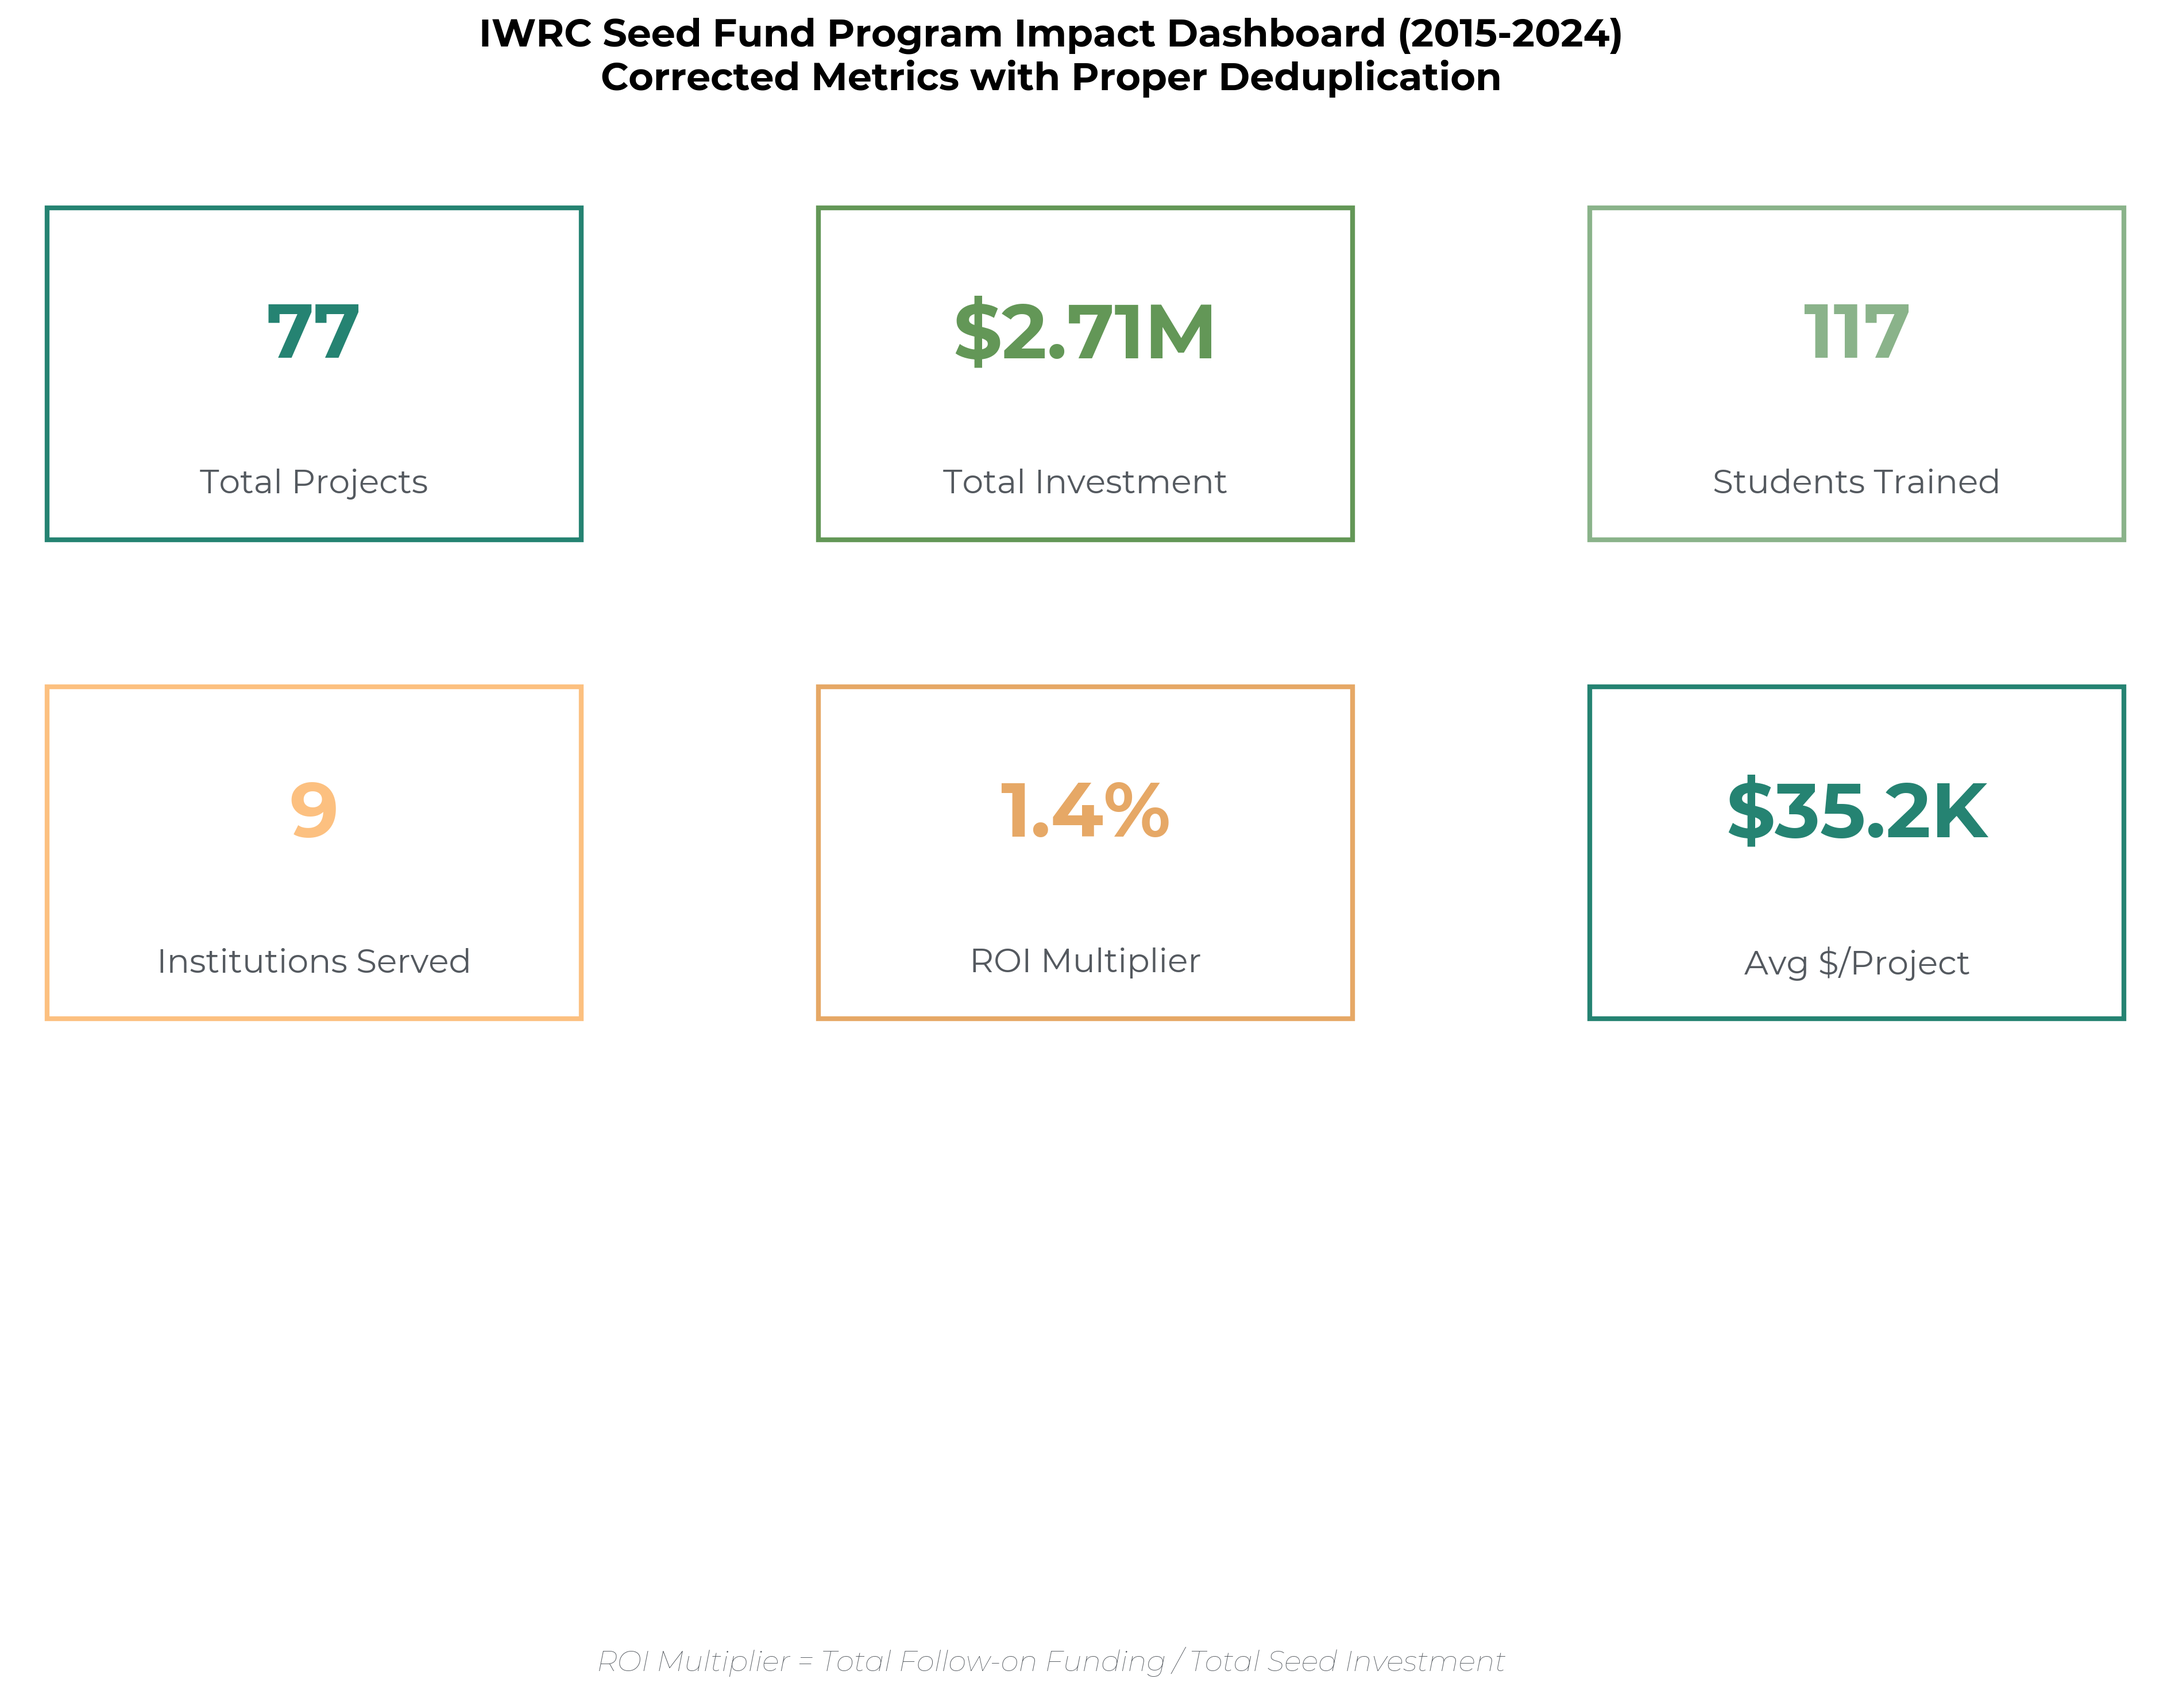
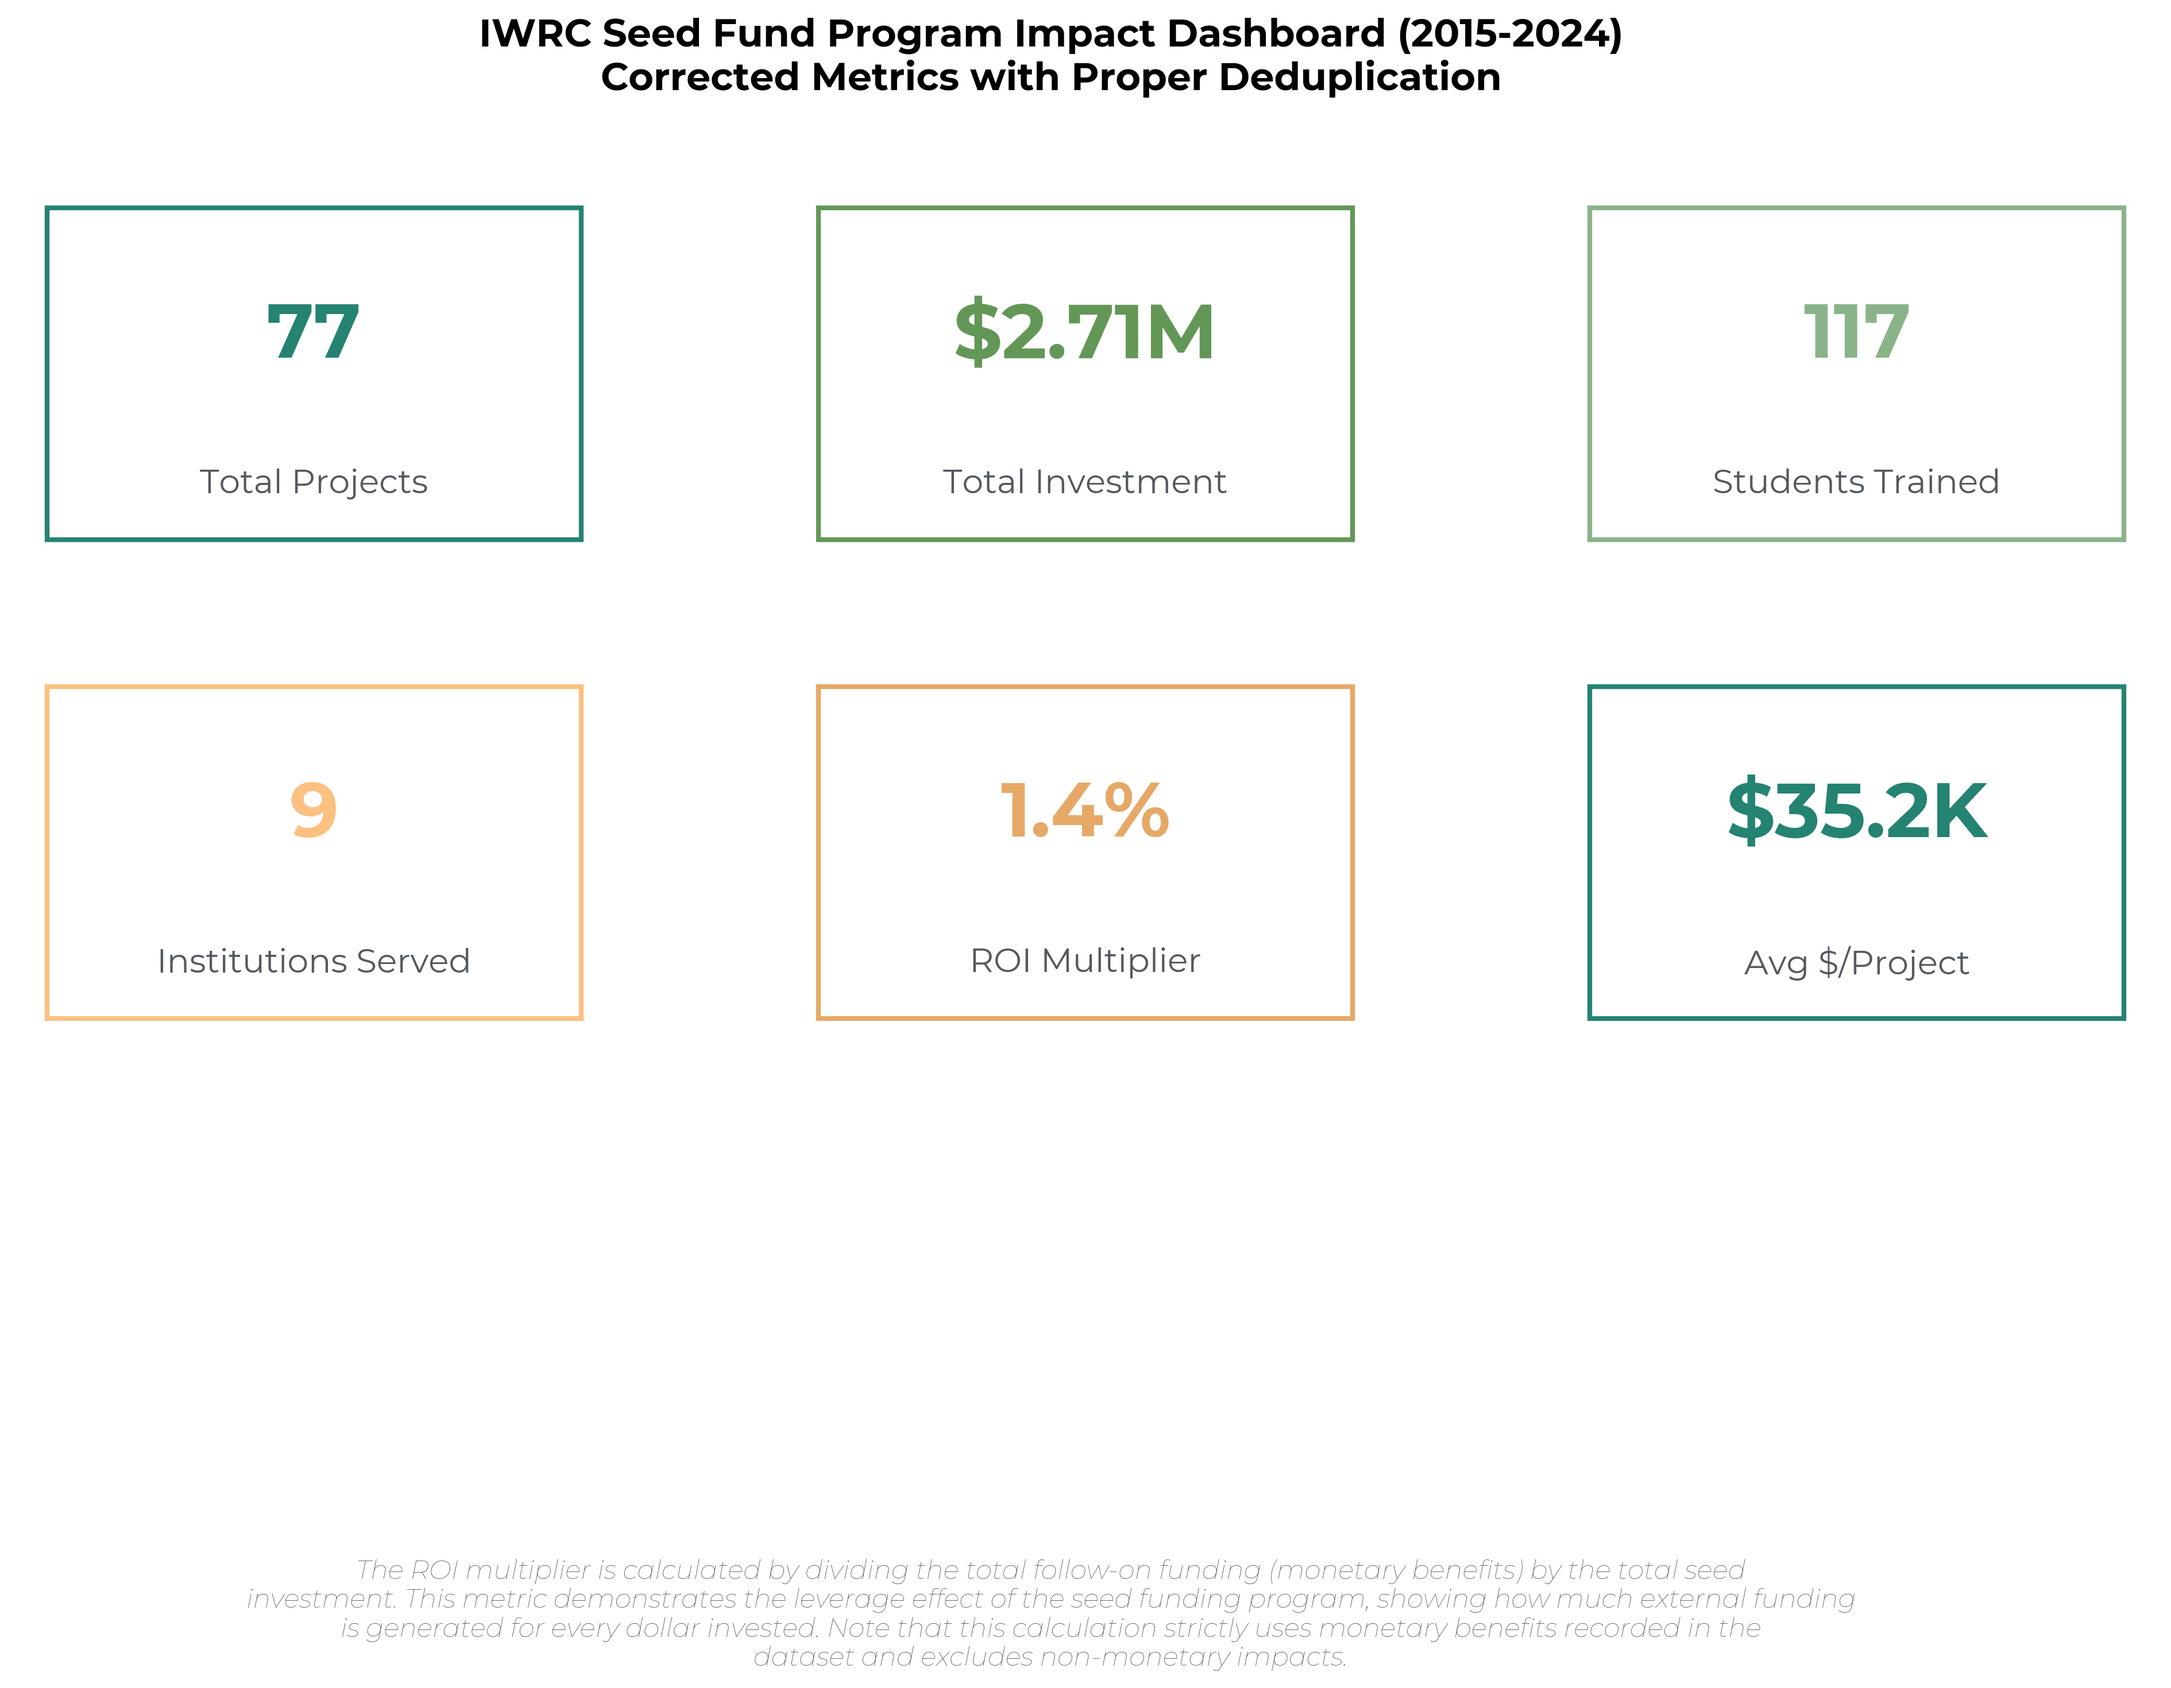
Update summary dashboard ROI explanation and investment chart labels

diff --git a/analysis/scripts/generate_overview_charts.py b/analysis/scripts/generate_overview_charts.py
@@ -14,6 +14,7 @@ from pathlib import Path
 import sys
 import os
 import re
+import textwrap
 
 # Add scripts directory to path
 sys.path.insert(0, str(Path(__file__).parent))
@@ -428,11 +429,8 @@ def generate_investment_by_institution(metrics):
     # Add labels
     for bar in bars:
         width = bar.get_width()
-        # Format as $X.XXM or $XXXK depending on size
-        if width >= 1e6:
-            label = f'${width/1e6:.2f}M'
-        else:
-            label = f'${width/1e3:.0f}K'
+        # Format as full number with commas
+        label = f'${width:,.0f}'
             
         ax.text(width + (inst_funding.max() * 0.01), bar.get_y() + bar.get_height()/2, 
                 label,
@@ -517,8 +515,17 @@ def generate_summary_dashboard(metrics):
         ax.add_patch(rect)
 
     # Add ROI Explanation
-    fig.text(0.5, 0.02, "ROI Multiplier = Total Follow-on Funding / Total Seed Investment", 
-             ha='center', fontsize=12, style='italic', color=COLORS['text'])
+    roi_explanation = (
+        "The ROI multiplier is calculated by dividing the total follow-on funding (monetary benefits) "
+        "by the total seed investment. This metric demonstrates the leverage effect of the seed funding "
+        "program, showing how much external funding is generated for every dollar invested. Note that "
+        "this calculation strictly uses monetary benefits recorded in the dataset and excludes "
+        "non-monetary impacts."
+    )
+    wrapped_explanation = "\n".join(textwrap.wrap(roi_explanation, width=120))
+    
+    fig.text(0.5, 0.02, wrapped_explanation, 
+             ha='center', va='bottom', fontsize=11, style='italic', color=COLORS['text'])
 
     plt.tight_layout()
     save_fig('summary_dashboard.png', 'overview')
